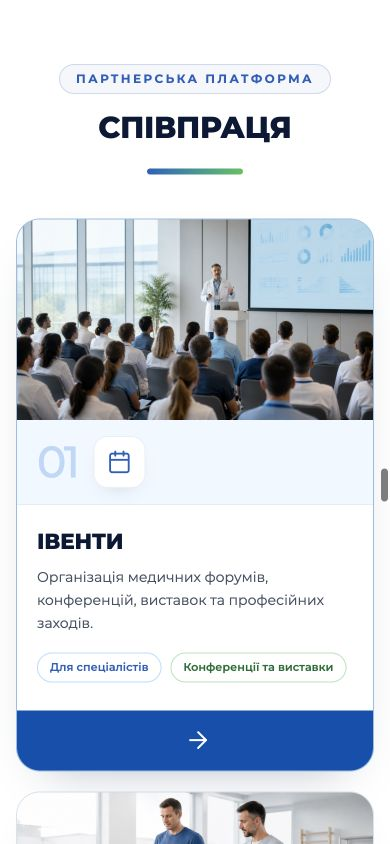
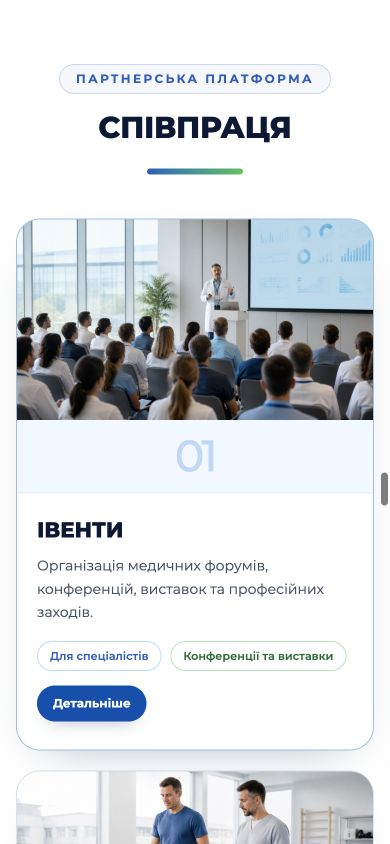
8

diff --git a/src/styles.css b/src/styles.css
@@ -130,8 +130,7 @@
     grid-template-areas:
       "media"
       "marker"
-      "copy"
-      "cta";
+      "copy";
     overflow: hidden;
     border: 1px solid oklch(0.91 0.018 247);
     border-radius: 1.5rem;
@@ -158,8 +157,8 @@
     grid-area: marker;
     display: flex;
     align-items: center;
-    gap: 1rem;
-    padding: 1rem 1.25rem;
+    justify-content: center;
+    padding: 0.9rem 1.25rem;
     background: oklch(0.975 0.014 250);
     border-bottom: 1px solid oklch(0.94 0.012 250);
   }
@@ -170,25 +169,6 @@
     font-weight: 500;
     line-height: 1;
     letter-spacing: -0.06em;
-  }
-
-  .cooperation-icon {
-    display: inline-flex;
-    width: 3.25rem;
-    height: 3.25rem;
-    flex: none;
-    align-items: center;
-    justify-content: center;
-    border: 1px solid oklch(0.95 0.012 250);
-    border-radius: 0.875rem;
-    background: white;
-    color: var(--color-primary);
-    box-shadow: 0 9px 22px -15px oklch(0.25 0.05 255 / 35%);
-  }
-
-  .cooperation-icon svg {
-    width: 1.55rem;
-    height: 1.55rem;
   }
 
   .cooperation-copy {
@@ -241,6 +221,30 @@
     color: oklch(0.47 0.13 150);
   }
 
+  .cooperation-details {
+    display: inline-flex;
+    width: fit-content;
+    min-height: 2.25rem;
+    align-items: center;
+    justify-content: center;
+    margin-top: 0.9rem;
+    border-radius: 999px;
+    padding: 0.45rem 1rem;
+    background: var(--color-primary);
+    color: white;
+    font-size: 0.75rem;
+    font-weight: 700;
+    line-height: 1;
+    transition:
+      background-color 230ms ease,
+      box-shadow 230ms ease;
+  }
+
+  .cooperation-card:hover .cooperation-details {
+    background: oklch(0.45 0.17 256);
+    box-shadow: 0 8px 18px -12px oklch(0.25 0.08 255 / 55%);
+  }
+
   .cooperation-media {
     position: relative;
     grid-area: media;
@@ -260,48 +264,20 @@
     transform: scale(1.035);
   }
 
-  .cooperation-cta {
-    grid-area: cta;
-    display: flex;
-    width: 100%;
-    height: 3.75rem;
-    align-items: center;
-    justify-content: center;
-    background: oklch(0.53 0.18 255);
-    color: white;
-    transition: background-color 230ms ease;
-  }
-
-  .cooperation-cta svg {
-    width: 1.7rem;
-    height: 1.7rem;
-    transition: transform 230ms ease;
-  }
-
-  .cooperation-card:hover .cooperation-cta {
-    background: oklch(0.45 0.17 256);
-  }
-
-  .cooperation-card:hover .cooperation-cta svg {
-    transform: translateX(3px);
-  }
-
   @media (min-width: 48rem) {
     .cooperation-card {
-      --cooperation-card-size: clamp(11.875rem, 16.95vw, 16.25rem);
-      grid-template-areas: "marker copy media cta";
+      --cooperation-card-size: clamp(13rem, 16.95vw, 16.25rem);
+      grid-template-areas: "marker copy media";
       grid-template-columns:
         clamp(5.625rem, 9vw, 10rem)
         minmax(16.25rem, 1.15fr)
-        minmax(11.25rem, 1fr)
-        var(--cooperation-card-size);
+        minmax(11.25rem, 1fr);
       height: var(--cooperation-card-size);
     }
 
     .cooperation-marker {
       flex-direction: column;
-      justify-content: space-between;
-      gap: 0.75rem;
+      justify-content: center;
       padding: 1.45rem 0.75rem;
       border-right: 1px solid oklch(0.94 0.012 250);
       border-bottom: 0;
@@ -309,17 +285,6 @@
 
     .cooperation-number {
       font-size: clamp(2.7rem, 4.2vw, 4rem);
-    }
-
-    .cooperation-icon {
-      width: clamp(3rem, 4.7vw, 4rem);
-      height: clamp(3rem, 4.7vw, 4rem);
-      border-radius: 1rem;
-    }
-
-    .cooperation-icon svg {
-      width: clamp(1.35rem, 2vw, 2rem);
-      height: clamp(1.35rem, 2vw, 2rem);
     }
 
     .cooperation-copy {
@@ -347,34 +312,29 @@
       font-size: clamp(0.57rem, 0.72vw, 0.75rem);
     }
 
+    .cooperation-details {
+      min-height: 2rem;
+      margin-top: clamp(0.6rem, 1vw, 0.85rem);
+      padding: 0.4rem clamp(0.75rem, 1vw, 1rem);
+      font-size: clamp(0.64rem, 0.72vw, 0.75rem);
+    }
+
     .cooperation-media {
       height: 100%;
       aspect-ratio: auto;
       border-radius: 1.125rem 0 0 1.125rem;
-    }
-
-    .cooperation-cta {
-      width: var(--cooperation-card-size);
-      height: var(--cooperation-card-size);
-    }
-
-    .cooperation-cta svg {
-      width: 2rem;
-      height: 2rem;
     }
   }
 
   @media (prefers-reduced-motion: reduce) {
     .cooperation-card,
     .cooperation-media img,
-    .cooperation-cta,
-    .cooperation-cta svg {
+    .cooperation-details {
       transition-duration: 0.01ms;
     }
 
     .cooperation-card:hover,
-    .cooperation-card:hover .cooperation-media img,
-    .cooperation-card:hover .cooperation-cta svg {
+    .cooperation-card:hover .cooperation-media img {
       transform: none;
     }
   }

diff --git a/src/routes/index.tsx b/src/routes/index.tsx
@@ -17,7 +17,6 @@ import {
   UserCheck,
   Flame,
   Zap,
-  Ambulance,
   Network,
   Microscope,
   Stethoscope,
@@ -298,7 +297,6 @@ const COOPERATION_ITEMS = [
     text: "Організація медичних форумів, конференцій, виставок та професійних заходів.",
     tags: ["Для спеціалістів", "Конференції та виставки"],
     href: "/iventy",
-    icon: Calendar,
     image: cooperationEventsImg,
   },
   {
@@ -307,7 +305,6 @@ const COOPERATION_ITEMS = [
     text: "Благодійні та реабілітаційні ініціативи, допомога громаді та соціальні програми.",
     tags: ["Для громади", "Благодійні ініціативи"],
     href: "/sotsialni-proiekty",
-    icon: Heart,
     image: cooperationSocialImg,
   },
   {
@@ -316,7 +313,6 @@ const COOPERATION_ITEMS = [
     text: "Команда ОСНОВА приїжджає до пацієнта додому, у готель або за місцем перебування з програмою відновлення.",
     tags: ["Для пацієнтів", "На дому та в готелі"],
     href: "/vyizna-reabilitatsiia",
-    icon: Ambulance,
     image: cooperationMobileRehabImg,
   },
 ];
@@ -516,8 +512,6 @@ function EducationCard({ item }: { item: (typeof EDUCATION_CARDS)[number] }) {
 }
 
 function CooperationCard({ item }: { item: (typeof COOPERATION_ITEMS)[number] }) {
-  const Icon = item.icon;
-
   return (
     <AppLink
       to={item.href}
@@ -526,9 +520,6 @@ function CooperationCard({ item }: { item: (typeof COOPERATION_ITEMS)[number] })
     >
       <div className="cooperation-marker" aria-hidden="true">
         <span className="cooperation-number">{item.number}</span>
-        <span className="cooperation-icon">
-          <Icon strokeWidth={1.8} />
-        </span>
       </div>
 
       <div className="cooperation-copy">
@@ -538,15 +529,12 @@ function CooperationCard({ item }: { item: (typeof COOPERATION_ITEMS)[number] })
           <span>{item.tags[0]}</span>
           <span>{item.tags[1]}</span>
         </div>
+        <span className="cooperation-details">Детальніше</span>
       </div>
 
       <div className="cooperation-media">
         <img src={item.image} alt={item.title} loading="lazy" />
       </div>
-
-      <span className="cooperation-cta" aria-hidden="true">
-        <ArrowRight strokeWidth={1.8} />
-      </span>
     </AppLink>
   );
 }

diff --git a/design-qa.md b/design-qa.md
@@ -16,19 +16,19 @@
 - Mobile viewport and pixels: 390 x 844 CSS px at device pixel ratio 1; screenshot 390 x 844.
 - State: default section state plus verified hover and link-navigation states.
 - Density normalization: source and desktop implementation use the same 2048 x 1173 pixel dimensions and DPR 1, so no density conversion was needed.
-- Primary interactions tested: whole-card click to `/iventy`; all three rendered hrefs; hover lift, border, image zoom, and CTA darkening.
+- Primary interactions tested: whole-card click to `/iventy`; all three rendered hrefs; hover lift, border, image zoom, and “Детальніше” darkening.
 - Console errors checked: none.
 
 **Full-View Comparison Evidence**
 - The source and implementation were opened together in the same visual comparison input at equal 2048 x 1173 dimensions.
-- The implemented header, card start position, three-card vertical rhythm, card width, light surfaces, number panels, text hierarchy, image zones, and blue transitions align closely with the reference.
-- The solid transition zones are intentionally square in the implementation, following the written requirement even though the reference image depicts narrower rectangles.
+- The implemented header, card start position, three-card vertical rhythm, card width, light surfaces, number panels, text hierarchy, and image zones align closely with the reference.
+- Following the latest user feedback, the solid blue transition zones and arrows were removed completely; each photograph now extends to the right card edge and the action remains in the copy area.
 - Generated photographs differ in exact people and framing from the mock but match the requested subjects, brightness, natural medical style, and no-overlay treatment.
 
 **Focused Region Comparison Evidence**
-- Desktop card geometry was measured directly: first card 1520 x 260 px; number panel 160 x 260 px; copy 587 x 260 px; image 511 x 260 px; CTA 260 x 260 px.
-- Tablet card geometry was measured directly: 944 x 190 px with a 190 x 190 px CTA, preserved horizontal structure, and no page overflow.
-- Mobile first card was reviewed at 390 px: image 356 x 200 px, marker row 356 x 85 px, copy 356 x 206 px, and full-width CTA 356 x 60 px; no page overflow.
+- Desktop card geometry was measured directly: first card 1520 x 260 px; the photograph occupies the final 632 px and reaches the right card edge; no blue transition element is rendered.
+- Tablet card geometry was measured directly: 944 x 208 px with a 395 px photograph reaching the right card edge, preserved horizontal structure, and no page overflow.
+- Mobile first card was reviewed at 390 px: image 356 x 200 px, number row 356 x 74 px, copy 356 x 256 px, a compact 110 x 36 px “Детальніше” action, and no blue rail or page overflow.
 
 **Required Fidelity Surfaces**
 - Fonts and typography: the site’s Montserrat system is preserved; navy heading hierarchy, weights, letter spacing, wrapping, and compact pill text remain readable at all tested widths.
@@ -36,7 +36,7 @@
 - Colors and visual tokens: white, navy, brand blue, pale blue, and restrained green accents map to existing OSNOVA tokens; no dark card backgrounds or photo overlays remain.
 - Image quality and asset fidelity: three dedicated 1600 x 900 JPEG assets use the requested conference, rehabilitation-studio, and at-home rehabilitation subjects; crops remain sharp and natural.
 - Copy and content: all specified titles, descriptions, numbers, and tag labels are present verbatim.
-- Icons: the existing Lucide icon family matches the project system and provides consistent calendar, heart, ambulance, and arrow line weights.
+- Icons: direction pictograms and the arrow were removed per user feedback, reducing visual noise without affecting the semantic whole-card link.
 - Accessibility and behavior: cards are semantic links with descriptive aria-labels, image alt text, visible keyboard focus, reduced-motion handling, and mobile tap targets above 56 px.
 
 **Open Questions**
@@ -46,7 +46,7 @@
 - Replaced the cooperation carousel with three stacked cards.
 - Removed cooperation pagination dots and previous/next controls.
 - Added dedicated generated photo assets and connected existing routes.
-- Added desktop/tablet square CTA behavior and mobile full-width CTA behavior.
+- Added a compact “Детальніше” action in the copy area and removed the redundant blue transition element at every breakpoint.
 - Verified production build, three responsive breakpoints, hover interaction, navigation, overflow, and console state.
 
 **Follow-up Polish**
@@ -55,6 +55,8 @@
 **Comparison History**
 - Pass 1: found P2 density drift—the initial implementation used 1440 x 220 px cards and excessive top whitespace compared with the reference.
 - Fix: expanded the card track to 1520 px, raised desktop card/CTA size to 260 px, tightened section padding, and rebalanced marker/copy/image columns.
-- Pass 2: desktop, tablet, and mobile captures showed no actionable P0/P1/P2 mismatch. The remaining CTA-width difference is intentional because the written requirement explicitly mandates a square desktop transition zone.
+- Pass 2: desktop, tablet, and mobile captures showed no actionable P0/P1/P2 mismatch.
+- Pass 3: after user feedback, reduced the right blue zone to one third of card height in width, removed all direction/arrow icons, added the compact text action, and reverified all three responsive layouts.
+- Pass 4: removed the remaining blue zone entirely, expanded each photograph to the right card edge, and reverified desktop and tablet layouts without overflow.
 
 final result: passed
